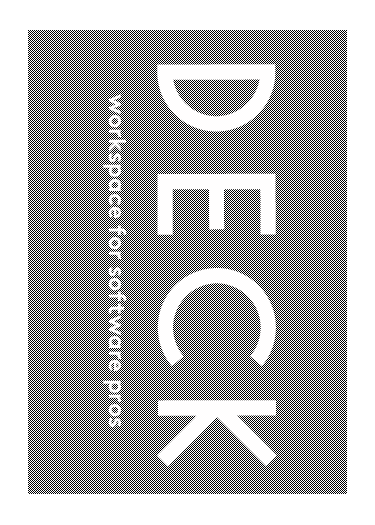
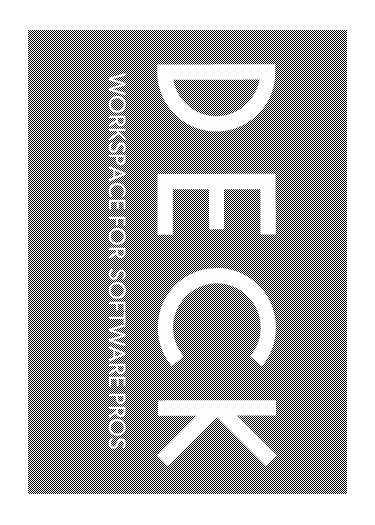
the font from github - for testing only :D

Changed region(s): [[0.264, 0.1219, 0.352, 0.8533]]

diff --git a/app/assets/stylesheets/style.css.scss b/app/assets/stylesheets/style.css.scss
@@ -13,9 +13,15 @@
 
 /* TYPE */
 
-h1 {
- font-family: "BrownStd";
- font-weight: normal; 
+@font-face {
+	font-family: Delicious;
+	src: url('https://github.com/nick-jonas/SliderJS/raw/master/example/assets/fonts/gibson/gibson-webfont.ttf');
+}
+
+body {
+  font-family: "Delicious"; /* "Gibson-Regular" */
+  font-size: 19px;
+  line-height: 21px;
 }
 
 a {
@@ -30,6 +36,12 @@ a:hover{
 	text-decoration: none;
 }
 
+h2 {
+  text-transform: uppercase;
+  font-size: 25px;
+  line-height: 24px;
+}
+
 
 /* PLAYING TABLE */
 
@@ -37,14 +49,10 @@ a:hover{
   width: auto;
   margin: 150px; // do not lose!
   text-align: center;
-  // background: pink;
-  min-height: 5000px;
 }
 
 body {
   background: url(image-path("deck-pattern.png"));
-  font-family: "BrownStd";
-  font-size: 17px;
   color: #989797;
 }
 
@@ -111,8 +119,9 @@ body {
 
 .member-name {
   color: white;
-  margin-top: 220px;
-  font-size: 2.3em;
+  margin-top: 200px;
+  font-size: 60px;
+  line-height: 40px;
   text-shadow: 2px 2px #444;
   -webkit-text-stroke: 1px #ccc;
   -webkit-text-fill-color: #FFFFFF;
@@ -123,7 +132,7 @@ body {
 .member-company {
   color: white;
   text-decoration: none;
-  font-size: 1.2em;
+  font-size: 1.4em;
   -webkit-text-stroke: 1px #ccc;
   text-shadow: 2px 2px #444;
 }
@@ -143,17 +152,21 @@ body {
 }
 
 .about-heading {
-  margin-top: 50px;
+  margin-top: 80px;
 }
 
 .member-area-heading {
   margin-top: 80px;
 }
 
+.relevant-heading {
+  margin-top: 70px;
+}
+
 p {
   margin-bottom: 20px;
-  margin-left: 10px;
-  margin-right: 10px;
+  margin-left: 8px;
+  margin-right: 8px;
 }
 div.photo {
  width: 335px;
